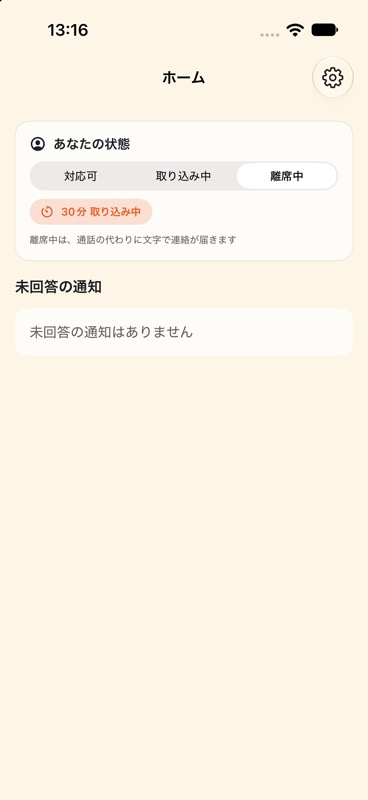
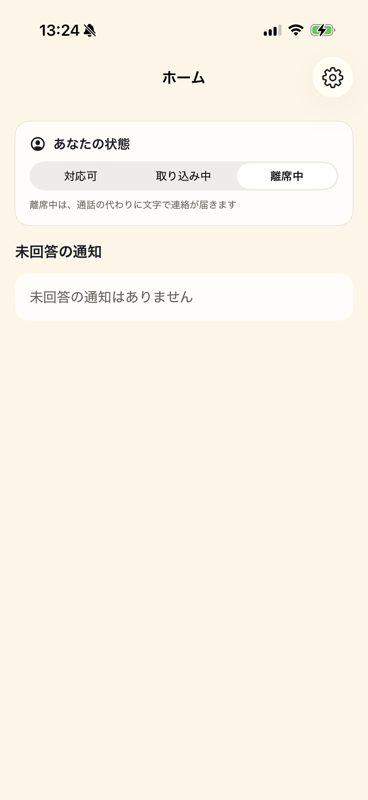
fix: show busy duration only for the selected status

diff --git a/ios/App/Sources/RequestListView.swift b/ios/App/Sources/RequestListView.swift
@@ -71,7 +71,12 @@ struct RequestListView: View {
             }
             Picker("状態", selection: Binding(
                 get: { model.effectivePresenceAvailability() },
-                set: { newValue in Task { await model.updatePresence(availability: newValue, until: nil) } }
+                set: { newValue in
+                    Task {
+                        if newValue == .busy { await model.setBusyFor30Minutes() }
+                        else { await model.updatePresence(availability: newValue, until: nil) }
+                    }
+                }
             )) {
                 ForEach([PresenceAvailability.available, .busy, .away], id: \.rawValue) { value in
                     Label(value.japaneseLabel, systemImage: value.systemImage).tag(value)
@@ -79,21 +84,14 @@ struct RequestListView: View {
             }
             .pickerStyle(.segmented)
             .disabled(model.isUpdatingPresence)
-            HStack(spacing: 8) {
-                Button {
-                    Task { await model.setBusyFor30Minutes() }
-                } label: {
-                    Label("30分 取り込み中", systemImage: "timer")
-                        .font(.caption.bold())
+            if model.effectivePresenceAvailability() != .available, let until = model.presenceUntil {
+                Label {
+                    Text("\(until, style: .time) まで")
+                } icon: {
+                    Image(systemName: "timer")
                 }
-                .buttonStyle(.bordered)
-                .tint(PagerTheme.orange)
-                .disabled(model.isUpdatingPresence)
-                if let until = model.presenceUntil, model.presenceAvailability != .available {
-                    Text("〜 \(until, style: .time) まで")
-                        .font(.caption)
-                        .foregroundStyle(PagerTheme.inkSoft)
-                }
+                .font(.caption)
+                .foregroundStyle(PagerTheme.inkSoft)
             }
             Text(presenceExplanation)
                 .font(.caption2)
